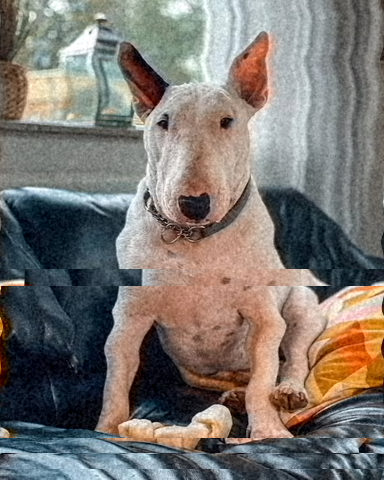
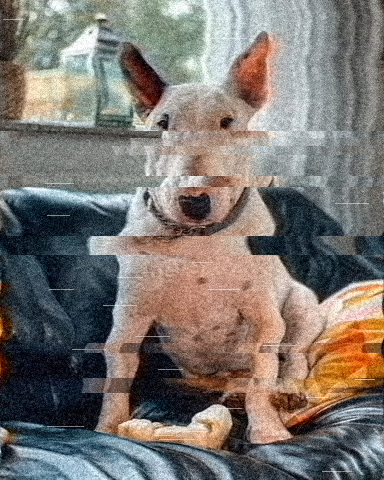
refactor(vhs)!: fold signal_noise into vhs
The static-and-dropouts look is now the vhs preset signal_noise. vhs gains
dropouts (white streaks, as tall as a noise speck, up to tracking wide);
the old localized snow bands are not reproduced.

diff --git a/src/bullterrier_image/effects/vhs/effect.py b/src/bullterrier_image/effects/vhs/effect.py
@@ -1,4 +1,5 @@
-"""The `vhs` effect: a worn videotape, with tracking bands, colour bleed, tape noise and wobble."""
+"""The `vhs` effect: a worn videotape or failing analog signal, with tracking bands, tape dropouts, colour bleed, noise
+(static, snow) and wobble."""
 
 from typing import Literal
 
@@ -13,7 +14,7 @@ from bullterrier_image.ops.shift import Edge, shift, slide_bands
 
 
 class VhsParams(EffectParams):
-    """The settings of `vhs`: tracking bands, bleed, tape noise, wobble and the random seed."""
+    """The settings of `vhs`: tracking bands, dropouts, bleed, tape noise, wobble and the random seed."""
 
     tracking: float = param(
         0.06,
@@ -29,6 +30,15 @@ class VhsParams(EffectParams):
         min=0,
         max=50,
         doc="How many horizontal tracking bands slide, 0 to 50, at random rows; 0 = none.",
+    )
+    dropouts: int = param(
+        0,
+        unit="count",
+        min=0,
+        max=2000,
+        doc="How many dropout streaks, 0 to 2000: short white marks where the signal was lost, each as tall as a "
+        "speck of tape noise (`noise_size`) and between half of `tracking` and `tracking` of the picture's width "
+        "long. 0 = none; raising it covers more of the picture.",
     )
     bleed: float = param(
         5.0,
@@ -60,8 +70,8 @@ class VhsParams(EffectParams):
         unit="count",
         min=0,
         max=2**32 - 1,
-        doc="Random seed for the bands, the noise and the wobble: the same seed always gives the same damage, any "
-        "other a different one.",
+        doc="Random seed for the bands, the dropouts, the noise and the wobble: the same seed always gives the same "
+        "damage, any other a different one.",
     )
     band_height: float = param(
         0.04,
@@ -111,18 +121,20 @@ class VhsParams(EffectParams):
 
 @effect(category="glitch", params=VhsParams)
 def vhs(rgb: np.ndarray, params: VhsParams) -> np.ndarray:
-    """Make the picture look like a worn videotape: tracking bands, wobbling rows, bled colour and tape noise.
+    """Make the picture look like a worn videotape or a failing analog signal: tracking bands, dropouts, wobbling
+    rows, bled colour and tape noise (static, snow).
 
     In this order: `bands` horizontal bands slide sideways by up to `tracking` of the width; every row then drifts
-    sideways by a slow random wander of about `wobble` px; in YIQ (as `ntsc`) the colour is moved `bleed` px right and
-    blurred sideways by that much, as colour on tape lags and smears; and `noise` of grain is added to the brightness.
-    The bands, the noise and the wobble draw from `seed`, so the same seed gives the same damage; changing the number
-    of bands moves neither noise nor wobble.
+    sideways by a slow random wander of about `wobble` px; `dropouts` white streaks are stamped on; in YIQ (as `ntsc`)
+    the colour is moved `bleed` px right and blurred sideways by that much, as colour on tape lags and smears; and
+    `noise` of grain is added to the brightness. The bands, dropouts, noise and wobble each draw from their own stream
+    of `seed`, so the same seed gives the same damage; changing the number of bands moves no dropout, noise or wobble.
     """
     height, width = rgb.shape[:2]
     rng = np.random.default_rng(params.seed)
     noise_seed = int(rng.integers(np.iinfo(np.uint32).max))
     wobble_seed = int(rng.integers(np.iinfo(np.uint32).max))
+    dropout_rng = np.random.default_rng(int(rng.integers(np.iinfo(np.uint32).max)))
     bands = []
     for _ in range(params.bands):
         thickness = min(height, max(1, round(rng.uniform(params.band_height / 2, params.band_height) * height)))
@@ -135,6 +147,13 @@ def vhs(rgb: np.ndarray, params: VhsParams) -> np.ndarray:
     )
     for row in range(height):
         out[row] = _slid(out[row : row + 1], float(wander[row, 0]), params.edge)[0]
+    # as tall as a speck of noise, so grain and dropouts scale together
+    streak_height = max(1, round(params.noise_size))
+    for _ in range(params.dropouts):
+        length = min(width, max(1, round(dropout_rng.uniform(params.tracking / 2, params.tracking) * width)))
+        row = int(dropout_rng.integers(height))
+        start = int(dropout_rng.integers(width - length + 1))
+        out[row : row + streak_height, start : start + length] = 1.0  # a dropout is white
     signal = rgb_to_yiq(out)
     sigmas = np.zeros(signal.ndim)  # a sigma of 0 leaves a direction alone: only the columns (axis 1) are blurred
     sigmas[1] = params.bleed

diff --git a/tests/effects/vhs/test_vhs.py b/tests/effects/vhs/test_vhs.py
@@ -139,3 +139,44 @@ def test_wobble_is_a_drift_of_the_asked_deviation_that_is_smooth_over_the_asked_
     np.testing.assert_allclose(slides.std(), wobble, rtol=0.05 if smooth else 0.25)
     correlation = np.corrcoef(slides[:-1], slides[1:])[0, 1]
     assert (correlation > 0.8) == smooth
+
+
+def test_the_failing_signal_look_is_a_preset_of_vhs() -> None:
+    """The cut effect `signal_noise` lives on as a preset: a name a person can still look up."""
+    assert "signal_noise" in registry.presets(NAME)
+
+
+def white_changes(before: np.ndarray, after: np.ndarray) -> np.ndarray:
+    """Where `after` is white and `before` was not (the dropouts, with every other damage off)."""
+    return np.isclose(after, 1, atol=1e-4).all(axis=2) & ~np.isclose(before, 1, atol=1e-4).all(axis=2)
+
+
+@pytest.mark.parametrize(("noise_size", "rows"), [(1.0, 1), (3.0, 3)])
+def test_a_dropout_is_one_white_streak_as_tall_as_a_speck_of_noise_and_up_to_tracking_wide(
+    photo, noise_size, rows
+) -> None:
+    width = photo.shape[1]
+    out = registry.apply(NAME, photo, **{**OFF, "tracking": 0.5}, bands=0, dropouts=1, noise_size=noise_size, seed=2)
+    streak = white_changes(photo, out)
+    assert streak.any()
+    lines, columns = np.flatnonzero(streak.any(axis=1)), np.flatnonzero(streak.any(axis=0))
+    assert len(lines) == min(rows, photo.shape[0] - lines[0])  # cut by the bottom edge
+    assert width * 0.5 / 2 - 1 <= len(columns) <= width * 0.5  # between half of tracking and tracking
+    assert np.array_equal(columns, np.arange(columns[0], columns[-1] + 1))
+    np.testing.assert_allclose(out[~streak], photo[~streak], atol=1e-5)
+
+
+def test_more_dropouts_cover_more_of_the_picture(photo) -> None:
+    settings = {**OFF, "tracking": 0.2, "bands": 0, "seed": 5}
+    few = white_changes(photo, registry.apply(NAME, photo, **settings, dropouts=3)).sum()
+    many = white_changes(photo, registry.apply(NAME, photo, **settings, dropouts=40)).sum()
+    assert 0 < few < many
+
+
+def test_the_dropouts_do_not_move_when_the_bands_change(photo) -> None:
+    """Bands and dropouts draw from their own streams of one seed: more bands move no dropout."""
+    settings = {**OFF, "tracking": 0.3, "dropouts": 6, "seed": 4}
+    without = registry.apply(NAME, photo, bands=0, **settings)
+    with_bands = registry.apply(NAME, photo, bands=3, **settings)
+    streak = white_changes(photo, without)
+    np.testing.assert_allclose(with_bands[streak], 1, atol=1e-4)

diff --git a/docs/effects-roadmap.md b/docs/effects-roadmap.md
@@ -78,7 +78,7 @@ it becomes a new effect only when it is a new idea. Planned merges of today's ef
 | `dust_scratches` ✓ | Specks, hairs and scratches. | `fx.dust_scratches(density=0.3, seed=1)` |
 | `paper_texture` ✓ | Procedural paper, canvas or linen surface. | `fx.paper_texture(kind="canvas", amount=0.3)` |
 | `crt` ✓ (a recipe, [crt.toml](../examples/recipes/crt.toml)) | Bulged glass in a bezel, bloom, soft scanlines, shadow mask, vignette. | `lens_distortion` (`fit` centre, `border`), `bloom`, `scanlines` (`softness` 1), `pixel_grid` (`gap` 0, `keep_brightness`), `vignette` |
-| `vhs` ✓ | Tracking bands, chroma bleed, tape noise, wobble. | `fx.vhs(tracking=0.06, bleed=5)` |
+| `vhs` ✓ | Tracking bands, dropouts, chroma bleed, tape noise, wobble; preset `signal_noise` (analog static, white dropouts). | `fx.vhs(tracking=0.06, bleed=5)` |
 | `ntsc` ✓ | Chroma smear and dot crawl. | `fx.ntsc(sigma=4)` |
 | `torn_edge` ✓ | Ragged paper edge. | `fx.torn_edge(roughness=0.6, seed=2)` |
 
@@ -178,7 +178,6 @@ of the picture, so a look does not depend on the resolution. `Framing.documentat
 | `jpeg_crush` ✓ | Re-encode at very low quality (the JPEG algorithm as maths: blocks, chroma bleed). | `fx.jpeg_crush(quality=6)`; with `hits`, damaged coefficients: smears and colour blocks, `fx.jpeg_crush(quality=20, hits=40, seed=2)` |
 | `scan_roll` ✓ | Vertical or horizontal sync roll. | `fx.scan_roll(offset=0.2)` |
 | `interlace` ✓ | Even/odd line offset and combing. | `fx.interlace(offset=6)` |
-| `signal_noise` ✓ | Static bands and dropouts. | `fx.signal_noise(bands=3, seed=1)` |
 | `echo` ✓ | Offset translucent copies. | `fx.echo(copies=4, dx=14, fade=0.5)` |
 | `dead_pixels` ✓ | Stuck and dead LCD pixels. | `fx.dead_pixels(count=120, seed=1)` |
 | `hologram` ✓ | Cyan scanlines, flicker, edge glow. | `fx.hologram(color="#30e0ff", phase=0.3)` |
